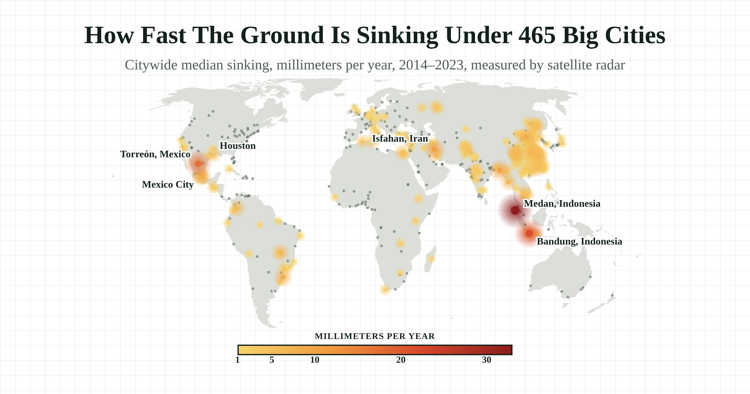
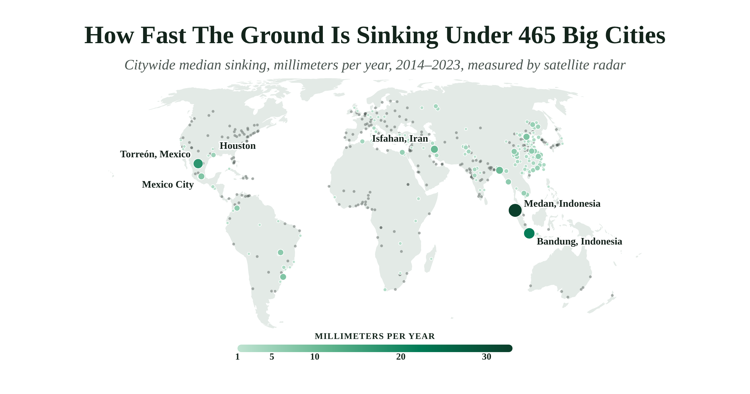
Sinking story: house palette (white, single green scale), crisp globe dots, italic subtitles
Claude-Session: https://claude.ai/code/session_01DsVn5xrU2YHFzaRTLsktQ2

diff --git a/sinking/embed.js b/sinking/embed.js
@@ -2,11 +2,11 @@
    Data: Wang et al., Nature Cities 2026 (github.com/LandSinking/GlobalUrbanSubsidence). */
 (function(){
   var BASE='https://stories.thenewsindata.com/sinking/';
-  var V='?v=1';
-  var INK='#14211b',SUB='#5f6b66',LINE='#e6e3dd',GRID='#efeee9',LAND='#d9dbd6',OCEAN='#f4f5f2',
-      GREEN='#1f7a5c',SEA='#2a6fb0',SOIL='#ece4d6',SOILEDGE='#9c8566',F='"Times New Roman",Times,serif';
+  var V='?v=2';
+  var INK='#13241b',SUB='#4a5550',LINE='#dde6e1',GRID='#eef3f0',LAND='#e3eae6',OCEAN='#ffffff',
+      GREEN='#007a55',SEA='#4a5550',SOIL='#f1f8f4',SOILEDGE='#13241b',F='"Times New Roman",Times,serif';
   var SEA_RATE=4.5, START=2014, END=2023;
-  var RAMP=['#f6d46b','#f09a3e','#d8492b','#8c1d1d'];
+  var RAMP=['#bfe3d1','#5fb48d','#007a55','#0b3d2a'];
   function heat(v){ // 1..33 mm/yr, linear across four stops
     var t=Math.max(0,Math.min(1,(v-1)/32))*3,i=Math.min(2,Math.floor(t)),f=t-i;
     var a=hex(RAMP[i]),b=hex(RAMP[i+1]);
@@ -22,15 +22,15 @@
     s.textContent=
     '.nid-sk{font-family:'+F+';color:'+INK+';margin:2.4em auto;max-width:860px}'+
     '.nid-sk h3{text-align:center;font-size:1.35em;line-height:1.2;margin:0 0 .2em;text-wrap:balance}'+
-    '.nid-sk .sub{text-align:center;color:'+SUB+';font-size:.95em;margin:0 0 .9em;text-wrap:balance}'+
+    '.nid-sk .sub{text-align:center;color:'+SUB+';font-style:italic;font-size:.95em;margin:0 0 .9em;text-wrap:balance}'+
     '.nid-sk .gw{position:relative;width:min(560px,100%);aspect-ratio:1/1;margin:0 auto;touch-action:none;cursor:grab;-webkit-user-select:none;user-select:none}'+
     '.nid-sk .gw:active{cursor:grabbing}.nid-sk canvas{position:absolute;inset:0;width:100%;height:100%}'+
-    '.nid-sk .hint{position:absolute;left:50%;bottom:7%;transform:translateX(-50%);background:'+INK+';color:#fff;font-size:15px;font-weight:bold;padding:7px 14px 7px 12px;border-radius:20px;white-space:nowrap;pointer-events:none;display:flex;align-items:center;gap:8px;box-shadow:0 2px 10px rgba(0,0,0,.18);animation:nidskp 2.2s ease-in-out infinite;transition:opacity .4s}'+
+    '.nid-sk .hint{position:absolute;left:50%;bottom:7%;transform:translateX(-50%);background:'+GREEN+';color:#fff;font-size:15px;font-weight:bold;padding:7px 14px 7px 12px;border-radius:20px;white-space:nowrap;pointer-events:none;display:flex;align-items:center;gap:8px;box-shadow:0 2px 10px rgba(0,0,0,.18);animation:nidskp 2.2s ease-in-out infinite;transition:opacity .4s}'+
     '.nid-sk .hint.off{opacity:0;animation:none}'+
     '@keyframes nidskp{0%,100%{transform:translateX(-50%) scale(1)}50%{transform:translateX(-50%) scale(1.05)}}'+
     '.nid-sk .gtip{position:absolute;z-index:3;background:#fff;border:1px solid #bdb8ad;border-radius:6px;padding:6px 9px;font-size:14px;line-height:1.35;box-shadow:0 2px 8px rgba(0,0,0,.12);pointer-events:none;white-space:nowrap;transform:translate(-50%,calc(-100% - 12px))}'+
     '.nid-sk .leg{width:min(380px,100%);margin:.6em auto 0}.nid-sk .leg .cap{font-size:11px;font-weight:bold;letter-spacing:.06em;text-align:center;margin-bottom:3px}'+
-    '.nid-sk .leg .bar{height:11px;border:1.5px solid '+INK+';background:linear-gradient(90deg,'+RAMP.join(',')+')}'+
+    '.nid-sk .leg .bar{height:10px;border:0;border-radius:5px;background:linear-gradient(90deg,'+RAMP.join(',')+')}'+
     '.nid-sk .leg .tk{position:relative;height:16px}.nid-sk .leg .tk span{position:absolute;transform:translateX(-50%);font-size:12px;font-weight:bold}'+
     '.nid-sk .note{font-size:13px;color:'+SUB+';text-align:center;margin-top:.4em}'+
     '.nid-sk .ctl{display:flex;flex-wrap:wrap;gap:8px 14px;align-items:center;justify-content:center;margin:0 0 .6em}'+
@@ -82,10 +82,9 @@
       g.beginPath();path(borders);g.strokeStyle='#fff';g.lineWidth=.6;g.stroke();
       g.beginPath();path({type:'Sphere'});g.strokeStyle=INK;g.lineWidth=2;g.stroke();
       var on=pts.filter(function(p){return vis(p,c);});
-      on.forEach(function(p){if(p.v>=1)return;var xy=proj([p.lon,p.lat]);g.beginPath();g.arc(xy[0],xy[1],2.1*k,0,7);g.fillStyle='rgba(95,107,102,.55)';g.fill();});
+      on.forEach(function(p){if(p.v>=1)return;var xy=proj([p.lon,p.lat]);g.beginPath();g.arc(xy[0],xy[1],2.1*k,0,7);g.fillStyle='rgba(74,85,80,.45)';g.fill();});
       on.forEach(function(p){if(p.v<1)return;var xy=proj([p.lon,p.lat]),x=xy[0],y=xy[1],rad=(5+Math.sqrt(p.v)*5.2)*k,col=heat(p.v);
-        var gr=g.createRadialGradient(x,y,0,x,y,rad);gr.addColorStop(0,rgba(col,.95));gr.addColorStop(.35,rgba(col,.6));gr.addColorStop(1,rgba(col,0));
-        g.fillStyle=gr;g.beginPath();g.arc(x,y,rad,0,7);g.fill();g.beginPath();g.arc(x,y,Math.max(2,1.4*Math.sqrt(p.v))*k,0,7);g.fillStyle=col;g.fill();});
+        var rr=Math.max(2.6,2.1*Math.sqrt(p.v))*k;g.beginPath();g.arc(x,y,rr,0,7);g.fillStyle=col;g.fill();g.lineWidth=1;g.strokeStyle='#fff';g.stroke();});
       g.font='bold '+Math.max(11,13*k)+'px '+F;g.textAlign='left';g.lineJoin='round';
       on.forEach(function(p){var f=STATE.focus===p.r;if(!LAB[p.r[0]]&&!f)return;var xy=proj([p.lon,p.lat]),t=place(p.r);
         g.lineWidth=3.5;g.strokeStyle='#fff';g.strokeText(t,xy[0]+9,xy[1]-7);g.fillStyle=INK;g.fillText(t,xy[0]+9,xy[1]-7);
@@ -132,7 +131,7 @@
     var cols=cs.map(function(r,i){
       var x=L+i*cw+5,g=sv('g',{},svg),seed=0;for(var j=0;j<r[0].length;j++)seed=(seed*31+r[0].charCodeAt(j))>>>0;
       function rnd(){seed=(seed*1664525+1013904223)>>>0;return seed/4294967296;}
-      var lost=sv('rect',{x:x,y:TOP,width:bw,height:0,fill:heat(Math.max(1,r[2])),opacity:.9},svg);
+      var lost=sv('rect',{x:x,y:TOP,width:bw,height:0,fill:heat(Math.max(1,r[2])),opacity:.95},svg);
       var mov=sv('g',{},svg);
       var soil=sv('rect',{x:x,y:0,width:bw,height:BOT-TOP,fill:SOIL},mov);
       sv('line',{x1:x,x2:x+bw,y1:0,y2:0,stroke:SOILEDGE,'stroke-width':2.5},mov);
@@ -193,7 +192,7 @@
       function yy(i){return top+8+jit[i]*(H-top-16);}
       g.strokeStyle=SEA;g.lineWidth=2;g.beginPath();g.moveTo(xp(SEA_RATE)*W,top-6);g.lineTo(xp(SEA_RATE)*W,H);g.stroke();
       g.fillStyle=SEA;g.font='bold 12px '+F;g.textAlign='left';g.fillText('Faster than the sea is rising →',xp(SEA_RATE)*W+5,top-10);
-      rows.forEach(function(r,i){g.beginPath();g.arc(xp(r[2])*W,yy(i),3.3,0,7);g.fillStyle=r[2]>=1?heat(r[2]):'#c4c8c3';g.fill();});
+      rows.forEach(function(r,i){g.beginPath();g.arc(xp(r[2])*W,yy(i),3.3,0,7);g.fillStyle=r[2]>=1?heat(r[2]):'#cfd9d3';g.fill();});
       strip.querySelectorAll('.lab').forEach(function(e){e.remove();});
       var m=find('Medan'),mi=rows.indexOf(m);g.fillStyle=INK;g.textAlign='right';g.fillText('Medan, Indonesia',xp(m[2])*W-7,yy(mi)+4);
       if(sel){var i=rows.indexOf(sel),x=xp(sel[2])*W,y=yy(i);g.beginPath();g.arc(x,y,7.5,0,7);g.strokeStyle=GREEN;g.lineWidth=3;g.stroke();
